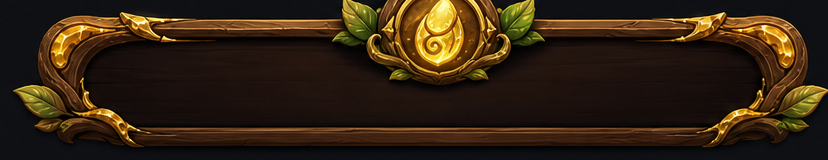
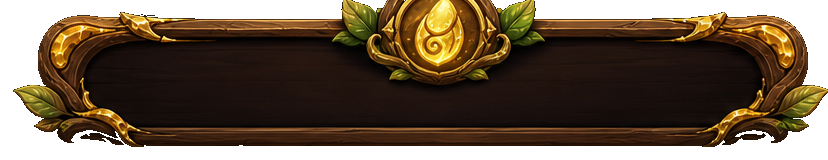
Clean up shop button asset edges

Changed region(s): [[0.0, 0.0, 1.0, 1.0]]

diff --git a/src/style.css b/src/style.css
@@ -3461,16 +3461,12 @@ canvas {
   padding: 0 20px;
   color: #ffe9a8;
   font-weight: 800;
+  line-height: 1;
   text-shadow: 0 1px 2px rgba(0, 0, 0, 0.84);
-  background:
-    linear-gradient(rgba(36, 18, 7, 0.08), rgba(36, 18, 7, 0.18)),
-    var(--shop-button-art) center / 100% 100% no-repeat,
-    linear-gradient(180deg, #7f541e, #2f1d0e);
+  background: var(--shop-button-art) center / 100% 74% no-repeat;
   border: 0;
-  border-radius: 8px;
-  box-shadow:
-    inset 0 0 18px rgba(255, 198, 70, 0.12),
-    0 6px 18px rgba(0, 0, 0, 0.24);
+  border-radius: 0;
+  box-shadow: none;
   cursor: pointer;
 }
 
@@ -3480,9 +3476,7 @@ canvas {
 
 .shop-button.is-primary {
   color: #efffc5;
-  background:
-    var(--shop-button-art) center / 100% 100% no-repeat,
-    linear-gradient(180deg, #6fa84d, #1d4a29);
+  background: var(--shop-button-art) center / 100% 74% no-repeat;
 }
 
 .shop-button:hover,
